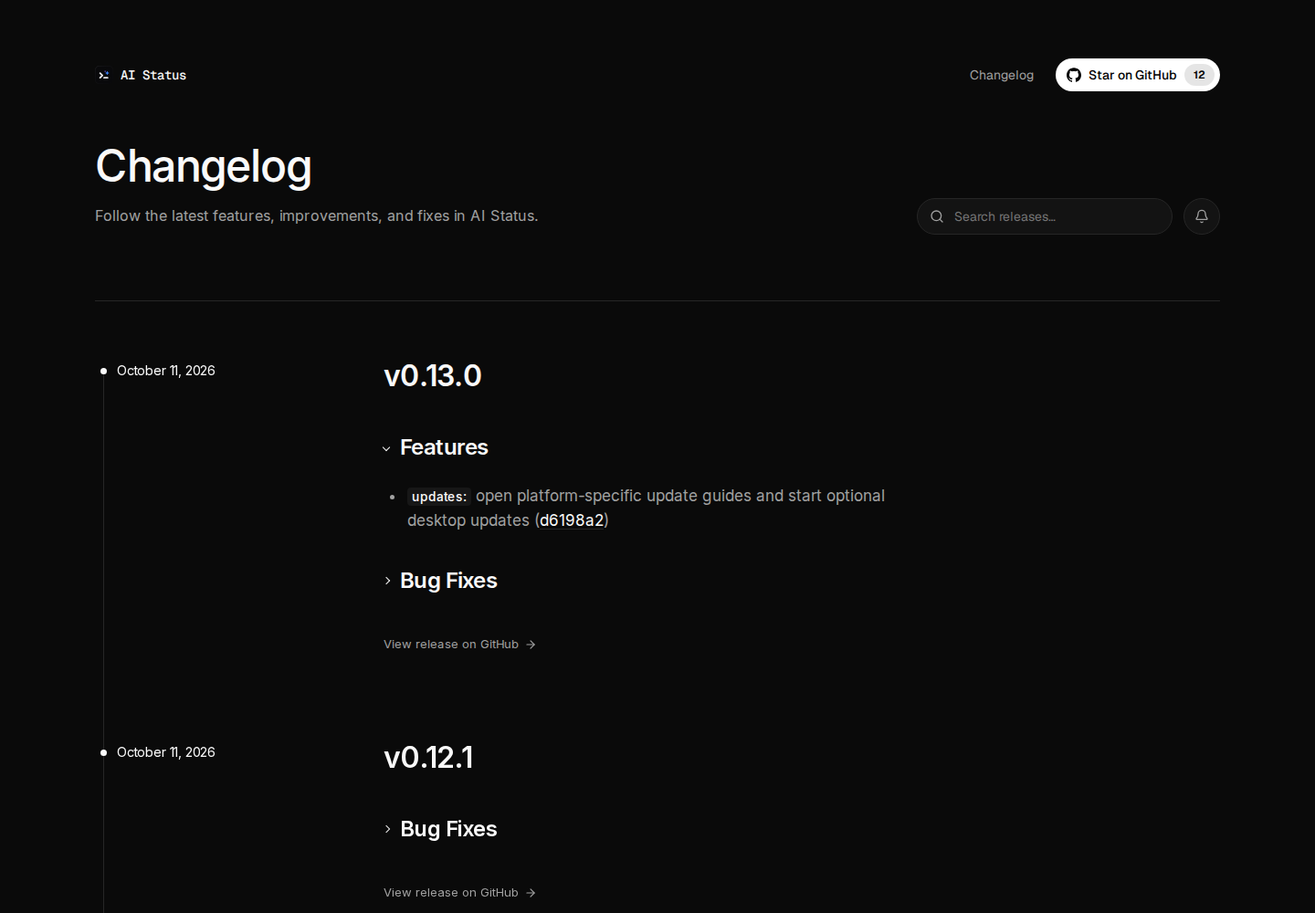
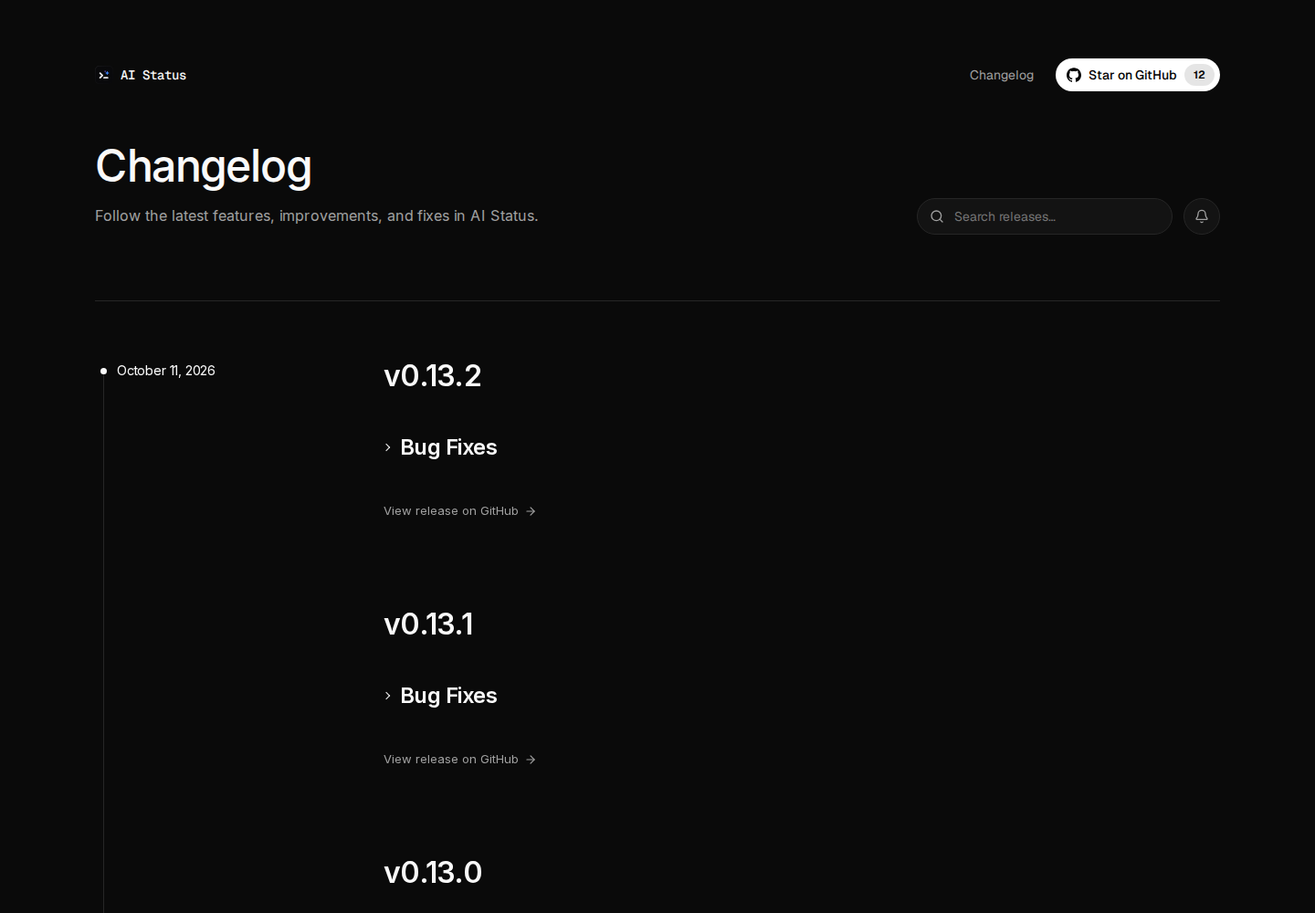
fix(web): group changelog releases by publication day (#58)

diff --git a/apps/web/src/app/changelog/page.tsx b/apps/web/src/app/changelog/page.tsx
@@ -6,7 +6,7 @@ import { ChangelogShell } from "@/components/changelog-shell";
 import { ChangelogSearch } from "@/components/changelog-search";
 import { PILL_CONTROL } from "@/components/search-input";
 import { getReleases } from "@/lib/releases";
-import { selectReleases } from "@/lib/changelog";
+import { groupReleasesByDay, selectReleases } from "@/lib/changelog";
 import { renderMarkdown } from "@/lib/markdown";
 import { repo, site } from "@/lib/env";
 import "./changelog.css";
@@ -38,20 +38,29 @@ export default async function ChangelogPage({ searchParams }: {
 		query: typeof params.q === "string" ? params.q : "",
 		page: typeof params.page === "string" ? Number(params.page) : 1,
 	});
-	const articles = await Promise.all(selection.releases.map(async (release) => {
-		const id = `release-${release.id}`;
+	const days = await Promise.all(groupReleasesByDay(selection.releases).map(async ({ day, releases }) => {
+		const date = dateFormat.format(new Date(`${day}T00:00:00Z`));
 		return (
-			<article key={release.id} id={id} className="changelog-entry" aria-labelledby={`${id}-title`}>
-				<div className="changelog-date"><a href={`#${id}`}><time dateTime={release.publishedAt}>{dateFormat.format(new Date(release.publishedAt))}</time></a></div>
-				<div className="changelog-article">
-					<h2 id={`${id}-title`} className="changelog-release-title"><a href={release.url}>{release.name}</a></h2>
-					{release.name !== release.tagName && <p className="changelog-version">{release.tagName}</p>}
-					<div className="changelog-prose">
-						{release.body.trim() ? await renderMarkdown(release.body, { release, headingPrefix: `${id}-section-` }) : <p>No release notes were provided. <a href={release.url}>View this release on GitHub.</a></p>}
-					</div>
-					<a href={release.url} className="changelog-release-link">View release on GitHub <ArrowRight size={14} aria-hidden="true" /></a>
+			<section key={day} className="changelog-day" aria-label={`${date} releases`}>
+				<div className="changelog-date"><a href={`#release-${releases[0].id}`}><time dateTime={day}>{date}</time></a></div>
+				<div className="changelog-day-releases">
+					{await Promise.all(releases.map(async (release) => {
+						const id = `release-${release.id}`;
+						return (
+							<article key={release.id} id={id} className="changelog-entry" aria-labelledby={`${id}-title`}>
+								<div className="changelog-article">
+									<h2 id={`${id}-title`} className="changelog-release-title"><a href={release.url}>{release.name}</a></h2>
+									{release.name !== release.tagName && <p className="changelog-version">{release.tagName}</p>}
+									<div className="changelog-prose">
+										{release.body.trim() ? await renderMarkdown(release.body, { release, headingPrefix: `${id}-section-` }) : <p>No release notes were provided. <a href={release.url}>View this release on GitHub.</a></p>}
+									</div>
+									<a href={release.url} className="changelog-release-link">View release on GitHub <ArrowRight size={14} aria-hidden="true" /></a>
+								</div>
+							</article>
+						);
+					}))}
 				</div>
-			</article>
+			</section>
 		);
 	}));
 	return (
@@ -69,7 +78,7 @@ export default async function ChangelogPage({ searchParams }: {
 				</div>
 				<div className="changelog-list">
 					{selection.query && <div className="changelog-search-results"><p>{selection.total} {selection.total === 1 ? "release" : "releases"} matching “{selection.query}”</p><Link href="/changelog">Clear search</Link></div>}
-					{result.status === "unavailable" ? <div className="changelog-empty" role="status"><h2>Release updates are temporarily unavailable</h2><p>Please try again shortly, or <a href={`${repo.url}/releases`}>read the releases on GitHub</a>.</p></div> : articles.length ? articles : <div className="changelog-empty" role="status"><h2>{selection.query ? "No releases found" : "No releases published yet"}</h2><p>{selection.query ? "Try another version, title or keyword." : "Published stable releases will appear here."}</p><a href={`${repo.url}/releases`}>View GitHub Releases <ArrowRight size={14} aria-hidden="true" /></a></div>}
+					{result.status === "unavailable" ? <div className="changelog-empty" role="status"><h2>Release updates are temporarily unavailable</h2><p>Please try again shortly, or <a href={`${repo.url}/releases`}>read the releases on GitHub</a>.</p></div> : days.length ? days : <div className="changelog-empty" role="status"><h2>{selection.query ? "No releases found" : "No releases published yet"}</h2><p>{selection.query ? "Try another version, title or keyword." : "Published stable releases will appear here."}</p><a href={`${repo.url}/releases`}>View GitHub Releases <ArrowRight size={14} aria-hidden="true" /></a></div>}
 				</div>
 				{selection.pageCount > 1 && <nav className="changelog-pagination" aria-label="Release pages">
 					{selection.page > 1 && <Link href={pageHref(selection.page - 1, selection.query)} rel="prev"><ArrowLeft size={14} aria-hidden="true" />Newer updates</Link>}

diff --git a/apps/web/src/app/changelog/changelog.css b/apps/web/src/app/changelog/changelog.css
@@ -20,13 +20,15 @@
 .changelog-tools { display: flex; align-items: center; gap: 12px; font-family: var(--font-geist-sans), sans-serif; }
 .changelog-search { width: 280px; }
 .changelog-list { border-top: 1px solid var(--border); padding-top: 64px; }
-.changelog-entry { display: grid; grid-template-columns: repeat(12, minmax(0, 1fr)); gap: 32px; position: relative; padding-bottom: 96px; scroll-margin-top: 96px; }
-.changelog-entry::before { content: ""; position: absolute; left: 9px; top: 12px; bottom: -12px; width: 1px; background: var(--border); }
-.changelog-entry:last-child::before { bottom: 96px; }
+.changelog-day { display: grid; grid-template-columns: repeat(12, minmax(0, 1fr)); gap: 32px; position: relative; }
+.changelog-day::before { content: ""; position: absolute; left: 9px; top: 12px; bottom: -12px; width: 1px; background: var(--border); }
+.changelog-day:last-child::before { bottom: 96px; }
 .changelog-date { grid-column: 1 / span 3; }
 .changelog-date a { position: sticky; top: 96px; display: block; padding-left: 24px; font-size: 14px; line-height: 24px; letter-spacing: -.182px; }
 .changelog-date a::before { content: ""; position: absolute; left: 6px; top: 9px; height: 7px; width: 7px; border-radius: 50%; background: var(--foreground); }
-.changelog-article { grid-column: 4 / span 6; min-width: 0; }
+.changelog-day-releases { grid-column: 4 / span 6; min-width: 0; }
+.changelog-entry { position: relative; padding-bottom: 96px; scroll-margin-top: 96px; }
+.changelog-article { min-width: 0; }
 .changelog-release-title { font-size: 32px; line-height: 36px; font-weight: 590; letter-spacing: -.704px; margin: 0; }
 .changelog-version { font-size: 14px; color: var(--muted-foreground); margin-top: 8px; }
 .changelog-prose { font-size: 17px; line-height: 1.6; color: var(--muted-foreground); overflow-wrap: anywhere; }
@@ -59,8 +61,8 @@
 .changelog-pagination > span { font-size: 13px; margin-right: auto; }
 .changelog-pagination a { display: inline-flex; align-items: center; gap: 8px; border: 1px solid var(--border); border-radius: 8px; padding: 9px 16px; }
 @media (max-width: 810px) {
-	.changelog-entry { grid-template-columns: repeat(8, minmax(0, 1fr)) repeat(4, 0); }
-	.changelog-article { grid-column: 4 / span 6; }
+	.changelog-day { grid-template-columns: repeat(8, minmax(0, 1fr)) repeat(4, 0); }
+	.changelog-day-releases { grid-column: 4 / span 6; }
 }
 @media (max-width: 768px) {
 	.changelog-release-title { font-size: 24px; line-height: 31.92px; letter-spacing: -.528px; }
@@ -72,8 +74,9 @@
 	.changelog-toolbar { min-height: 40px; flex-direction: column; align-items: stretch; gap: 24px; }
 	.changelog-tools { width: 100%; }
 	.changelog-search { flex: 1; width: auto; min-width: 0; }
-	.changelog-entry { display: flex; flex-direction: column; gap: 32px; padding-bottom: 80px; }
-	.changelog-entry::before, .changelog-date a::before { display: none; }
+	.changelog-day { display: flex; flex-direction: column; gap: 32px; }
+	.changelog-entry { padding-bottom: 80px; }
+	.changelog-day::before, .changelog-date a::before { display: none; }
 	.changelog-date a { position: static; padding: 0; color: var(--muted-foreground); }
 	.changelog-prose :is(h1, h2, h3, h4) { margin-top: 40px; }
 	.changelog-pagination { flex-wrap: wrap; gap: 12px; padding-bottom: 64px; }

diff --git a/apps/web/tests/markdown.test.tsx b/apps/web/tests/markdown.test.tsx
@@ -28,6 +28,21 @@ test("release Markdown preserves content and removes only the repeated automatic
 	assert.match(differentDate, /<h2/);
 });
 
+test("initial release notes remove a matching version/date heading linked to their commit history", async () => {
+	const initial = { tagName: "v0.1.0", publishedAt: "2026-07-03T22:44:24Z" };
+	const notes = "## [0.1.0](https://github.com/gelzinn/ai-status/commits/v0.1.0) (2026-07-03)\n\n" +
+		"### Features\n\n* Initial provider support.";
+	const html = renderToStaticMarkup(await renderMarkdown(notes, { release: initial }));
+	assert.doesNotMatch(html, /<h2/);
+	assert.match(html, /Initial provider support/);
+	for (const other of [
+		{ ...initial, tagName: "v0.2.0" },
+		{ ...initial, publishedAt: "2026-07-04T00:00:00Z" },
+	]) {
+		assert.match(renderToStaticMarkup(await renderMarkdown(notes, { release: other })), /<h2/);
+	}
+});
+
 test("heading IDs and local links remain unique within and across releases", async () => {
 	const notes = "### Fixes\n\n[Jump to fixes](#fixes)\n\n### Fixes\n\nAnother fix.";
 	const first = renderToStaticMarkup(await renderMarkdown(notes, { headingPrefix: "release-1-" }));

diff --git a/apps/web/src/lib/markdown.tsx b/apps/web/src/lib/markdown.tsx
@@ -75,7 +75,7 @@ type MarkdownOptions = {
 	release?: { tagName: string; publishedAt: string };
 };
 
-/** Remove only Release Please's redundant first version/date heading. */
+/** Remove only release notes' redundant first version/date heading. */
 function releaseHeading({ release }: MarkdownOptions) {
 	return (tree: { children: any[] }) => {
 		if (!release) return;
@@ -89,7 +89,8 @@ function releaseHeading({ release }: MarkdownOptions) {
 		if (first?.type === "heading" && first.depth === 2 &&
 			text(first) === `${version} (${date})` && versionLink?.type === "link" &&
 			typeof versionLink.url === "string" && versionLink.url.startsWith("https://github.com/") &&
-			versionLink.url.includes("/compare/")) {
+			(versionLink.url.includes("/compare/") ||
+				versionLink.url.endsWith(`/commits/${release.tagName}`))) {
 			tree.children.shift();
 		}
 	};

diff --git a/apps/web/src/lib/changelog.ts b/apps/web/src/lib/changelog.ts
@@ -15,6 +15,26 @@ export type ReleaseResult =
 export const RELEASES_PER_PAGE = 10;
 const API_PAGE_SIZE = 100;
 
+export interface ReleaseDayGroup {
+	day: string;
+	releases: Release[];
+}
+
+/** Group a selected page by UTC publication day, preserving publication order. */
+export function groupReleasesByDay(releases: Release[]): ReleaseDayGroup[] {
+	const groups = new Map<string, ReleaseDayGroup>();
+	for (const release of releases) {
+		const day = new Date(release.publishedAt).toISOString().slice(0, 10);
+		const group = groups.get(day);
+		if (group) {
+			group.releases.push(release);
+		} else {
+			groups.set(day, { day, releases: [release] });
+		}
+	}
+	return [...groups.values()];
+}
+
 interface FetchReleasesOptions {
 	apiRepo: string;
 	userAgent: string;

diff --git a/docs/release-notes/README.md b/docs/release-notes/README.md
@@ -1,0 +1,47 @@
+# Historical release notes
+
+These files contain the reviewed GitHub release bodies for the 15 published stable releases from v0.1.0 through v0.9.0. GitHub Releases remain the content source for the [web changelog](https://ai-status.gelzin.com/changelog); these Markdown files record a one-time historical normalization, rather than a second changelog or input to the release workflow. Releases v0.10.0 and later retain their existing Release Please notes.
+
+Each file uses the current release-note structure: a linked version heading, the original UTC publication date and applicable Features, Bug Fixes, Performance Improvements, Documentation or Maintenance sections. The initial release links to its tagged commit history because it has no preceding release. Changes are attributed to their original pull requests or commits. Version-bump commits, release preparation boilerplate and merge commits are omitted. @allankayan's first contribution is preserved in v0.2.0.
+
+## Evidence
+
+The source evidence is the original published GitHub release body, the tagged comparison and the commit messages and file changes in that range. Publication dates come from each release's `published_at` metadata, rather than the tag or commit date. The original bodies are retained in the migration snapshot described below. Links use the current `gelzinn/ai-status` repository name, including releases published before the repository was renamed from `omarchy-ai-status`.
+
+| Release | Tagged evidence | Main change references |
+| --- | --- | --- |
+| v0.1.0 | [Initial history](https://github.com/gelzinn/ai-status/commits/v0.1.0) | [Initial implementation](https://github.com/gelzinn/ai-status/commit/e66291893ab385c0f5f1bccfed2eccb5a9062d77), [configuration](https://github.com/gelzinn/ai-status/commit/f3781e9d1a3d5e45d5a553148f02d4ed2fdf34cb), [terminal launch](https://github.com/gelzinn/ai-status/commit/82938959938f72aa050458edc5e86cb5216f4693) |
+| v0.2.0 | [v0.1.0…v0.2.0](https://github.com/gelzinn/ai-status/compare/v0.1.0...v0.2.0) | [#1](https://github.com/gelzinn/ai-status/pull/1), documentation commits linked in the notes |
+| v0.3.0 | [v0.2.0…v0.3.0](https://github.com/gelzinn/ai-status/compare/v0.2.0...v0.3.0) | [#2](https://github.com/gelzinn/ai-status/pull/2) |
+| v0.3.1 | [v0.3.0…v0.3.1](https://github.com/gelzinn/ai-status/compare/v0.3.0...v0.3.1) | [#3](https://github.com/gelzinn/ai-status/pull/3) |
+| v0.3.2 | [v0.3.1…v0.3.2](https://github.com/gelzinn/ai-status/compare/v0.3.1...v0.3.2) | [#5](https://github.com/gelzinn/ai-status/pull/5) |
+| v0.3.3 | [v0.3.2…v0.3.3](https://github.com/gelzinn/ai-status/compare/v0.3.2...v0.3.3) | [Funding configuration](https://github.com/gelzinn/ai-status/commit/389f3b3f506ebd58d9981821b9c939497113f431) |
+| v0.4.0 | [v0.3.3…v0.4.0](https://github.com/gelzinn/ai-status/compare/v0.3.3...v0.4.0) | [#6](https://github.com/gelzinn/ai-status/pull/6) |
+| v0.4.1 | [v0.4.0…v0.4.1](https://github.com/gelzinn/ai-status/compare/v0.4.0...v0.4.1) | [#7](https://github.com/gelzinn/ai-status/pull/7) |
+| v0.4.2 | [v0.4.1…v0.4.2](https://github.com/gelzinn/ai-status/compare/v0.4.1...v0.4.2) | [#8](https://github.com/gelzinn/ai-status/pull/8), [#9](https://github.com/gelzinn/ai-status/pull/9), [#10](https://github.com/gelzinn/ai-status/pull/10) |
+| v0.5.0 | [v0.4.2…v0.5.0](https://github.com/gelzinn/ai-status/compare/v0.4.2...v0.5.0) | [#11](https://github.com/gelzinn/ai-status/pull/11), [#12](https://github.com/gelzinn/ai-status/pull/12), [#14](https://github.com/gelzinn/ai-status/pull/14), [#15](https://github.com/gelzinn/ai-status/pull/15), [#16](https://github.com/gelzinn/ai-status/pull/16), [#17](https://github.com/gelzinn/ai-status/pull/17) |
+| v0.6.0 | [v0.5.0…v0.6.0](https://github.com/gelzinn/ai-status/compare/v0.5.0...v0.6.0) | [#19](https://github.com/gelzinn/ai-status/pull/19) |
+| v0.6.1 | [v0.6.0…v0.6.1](https://github.com/gelzinn/ai-status/compare/v0.6.0...v0.6.1) | [#21](https://github.com/gelzinn/ai-status/pull/21) |
+| v0.7.0 | [v0.6.1…v0.7.0](https://github.com/gelzinn/ai-status/compare/v0.6.1...v0.7.0) | [#23](https://github.com/gelzinn/ai-status/pull/23) |
+| v0.8.0 | [v0.7.0…v0.8.0](https://github.com/gelzinn/ai-status/compare/v0.7.0...v0.8.0) | [#25](https://github.com/gelzinn/ai-status/pull/25) |
+| v0.9.0 | [v0.8.0…v0.9.0](https://github.com/gelzinn/ai-status/compare/v0.8.0...v0.9.0) | [#27](https://github.com/gelzinn/ai-status/pull/27) |
+
+Two historical cases need explicit interpretation:
+
+* v0.3.3 originally had only a comparison link. Its range contains the funding configuration and a version bump; the normalized notes describe only the funding change.
+* v0.5.0's original generated body compared against v0.4.1 and repeated changes already published in v0.4.2. The normalized body compares against v0.4.2 and assigns each substantive change to the first published tag containing it.
+
+The Maintenance and release-related Bug Fixes describe the automation shipped at those historical tags. They are historical notes, not instructions for the current release workflow.
+
+## Body-only migration
+
+Applied on October 11, 2026: all 15 legacy release bodies match these files.
+Release IDs, names, tags, target commits, publication dates, status and assets
+were checked against the original snapshot. The seven modern releases were
+also checked and their bodies were unchanged.
+
+Before applying these files, export the complete existing release metadata and bodies to a dated JSON snapshot outside the repository. Keep the snapshot's location in the migration record so the original bodies can be restored; do not commit local paths, credentials or transient API responses here.
+
+After review, update only the `body` field of each matching published release, using its existing release ID. Preserve names, tags, target commits, publication dates, draft/prerelease status and assets. Do not recreate or republish releases. Read the releases back and compare their bodies with these files, then compare all other metadata and assets with the backup. Verify that modern releases are unchanged and that the web changelog renders the migrated Markdown after its cache refresh.
+
+Future releases continue to obtain their notes from Release Please and GitHub Releases; this directory does not participate in generation or publication.

diff --git a/docs/screenshots/changelog/README.md b/docs/screenshots/changelog/README.md
@@ -2,23 +2,34 @@
 
 These screenshots capture the production Next.js build at `/changelog`, using
 published stable releases from `gelzinn/ai-status`. The latest release shown is
-`v0.13.0`, captured on October 11, 2026. No credentials or account data appear.
+`v0.13.2`, captured on October 11, 2026. No credentials or account data appear.
 
 The release list follows the Linear changelog's measured typography, spacing,
 timeline and responsive grid. The page reuses the website's shared header and
 footer, its provider search input, and the landing page's light and dark colors.
 Header, content and footer share the landing page's `max-w-7xl` container and
 24-pixel horizontal padding. A description replaces the repeated changelog tab.
+Releases share one date and timeline marker per UTC publication day. On desktop,
+the date stays visible while scrolling through that day's releases, then gives
+way to the next date. Mobile shows one static date above each group. The captured
+October 11 group contains six releases.
+
 Features and Bug Fixes use the same expandable headings. Features starts open;
-Bug Fixes starts closed.
+Bug Fixes starts closed. Releases containing only fixes keep those notes available
+in their Bug Fixes section.
 
 - `desktop-dark.png` and `desktop-light.png`: 1440 × 1000 viewport.
 - `mobile-dark.png` and `mobile-light.png`: 390 × 844 viewport.
+- `desktop-sticky-dark.png`: 1440 × 1000 viewport, scrolled through the October 11
+  group to show one date beside several versions.
+- `desktop-legacy-dark.png`: 1440 × 1000 viewport, showing the normalized sections
+  in the published `v0.9.0` notes.
 
-Browser validation covers search across older releases, pagination, clearing
-search, shared navigation, release section defaults and mouse/keyboard toggles,
-Escape and focus return
-in the image dialog, aligned header/content/footer edges and no horizontal
-overflow at 320, 390, 768, 1024, 1440 or 1920 pixels. A separate
-fixture exercises the actual image component's server rendering, hydration,
-zoom dialog, linked images and keyboard behavior.
+Browser validation covers one date/marker per day, sticky behavior across several
+releases and at day boundaries, static mobile dates, release anchors, search
+across older releases, query-preserving pagination, clearing search, and section
+defaults and mouse/keyboard toggles. Header/content/footer edges remain aligned
+with no horizontal overflow at 320, 390, 768, 1024, 1440 or 1920 pixels. The
+canonical version/date heading and commits link are removed from the rendered
+`v0.1.0` body. A separate fixture exercises the image component's server rendering,
+hydration, zoom dialog, linked images and keyboard behavior.

diff --git a/docs/release-notes/v0.7.0.md b/docs/release-notes/v0.7.0.md
@@ -1,0 +1,21 @@
+## [0.7.0](https://github.com/gelzinn/ai-status/compare/v0.6.1...v0.7.0) (2026-07-11)
+
+### Features
+
+* **install:** configure bar icons and display preferences in an installation wizard, back up the existing Waybar configuration and restore it with `ai-status revert` ([#23](https://github.com/gelzinn/ai-status/pull/23), [9387360](https://github.com/gelzinn/ai-status/commit/9387360f5dce47ebe566d025bb55069d8103d175)).
+* **waybar:** select individual provider metrics, including Claude's separate weekly limits, and show the same detailed tooltip when hovering over the text or provider logo ([#23](https://github.com/gelzinn/ai-status/pull/23)).
+* **web:** redesign the landing page and provider catalog and provide the shorter `/install` URL for installation commands ([#23](https://github.com/gelzinn/ai-status/pull/23)).
+
+### Bug Fixes
+
+* **install:** handle URLs and trailing commas in Waybar configuration, avoid duplicate modules, guard unsupported multi-bar configurations and finish setup with defaults in headless or cancelled-wizard cases ([#23](https://github.com/gelzinn/ai-status/pull/23)).
+* **waybar:** preserve display preferences during loading, keep tooltip layouts stable and synchronize text and logo when the selected provider changes ([#23](https://github.com/gelzinn/ai-status/pull/23)).
+
+### Performance Improvements
+
+* **usage:** display each provider's result as it arrives instead of waiting for the slowest provider to finish refreshing ([#23](https://github.com/gelzinn/ai-status/pull/23)).
+* **install:** install only the desktop library and shared provider data, leaving website dependencies, build output and Git metadata out of the installed copy ([#23](https://github.com/gelzinn/ai-status/pull/23)).
+
+### Documentation
+
+* update installation and provider guides for the wizard, logo tooltips, per-model metric selection and Codex's five-hour and weekly limits ([#23](https://github.com/gelzinn/ai-status/pull/23)).

diff --git a/docs/release-notes/v0.5.0.md b/docs/release-notes/v0.5.0.md
@@ -1,0 +1,13 @@
+## [0.5.0](https://github.com/gelzinn/ai-status/compare/v0.4.2...v0.5.0) (2026-07-07)
+
+### Features
+
+* **web:** introduce the project website and move the desktop library and shared provider data into a monorepo named AI Status ([#16](https://github.com/gelzinn/ai-status/pull/16), [d92bb67](https://github.com/gelzinn/ai-status/commit/d92bb678fdbe26785e10603c9a1ebb357cc5aa22)).
+* **install:** migrate existing `waybar-ai-status` installations automatically and keep the legacy command symlink working ([#16](https://github.com/gelzinn/ai-status/pull/16)).
+
+### Bug Fixes
+
+* **web:** fix TypeScript configuration and font loading after the monorepo migration ([#17](https://github.com/gelzinn/ai-status/pull/17), [2d59376](https://github.com/gelzinn/ai-status/commit/2d5937671fedfb4ab725ae36ae51585d2f808f51)).
+* **release:** use a release pull request for protected main and authenticate its creation with the configured bot token ([#11](https://github.com/gelzinn/ai-status/pull/11), [#12](https://github.com/gelzinn/ai-status/pull/12)).
+* **release:** read only the first line of commit messages to avoid multiline co-author metadata breaking workflow outputs ([#14](https://github.com/gelzinn/ai-status/pull/14), [cdce2a7](https://github.com/gelzinn/ai-status/commit/cdce2a7a694717f860f2ff8c60583cece4f20476)).
+* **release:** replace an existing release branch before pushing and skip preparation when the release tag already exists ([#15](https://github.com/gelzinn/ai-status/pull/15), [a0ed3e1](https://github.com/gelzinn/ai-status/commit/a0ed3e1fd0fa63b63fdafaf5bed547e69eb0c2ef)).

diff --git a/docs/release-notes/v0.8.0.md b/docs/release-notes/v0.8.0.md
@@ -1,0 +1,15 @@
+## [0.8.0](https://github.com/gelzinn/ai-status/compare/v0.7.0...v0.8.0) (2026-07-12)
+
+### Features
+
+* **web:** search providers and filter the catalog by authentication method and usage period, with a live result count and mobile-friendly controls ([#25](https://github.com/gelzinn/ai-status/pull/25), [a906eb3](https://github.com/gelzinn/ai-status/commit/a906eb3f6b9b8491e93a90f314451488f079aa76)).
+* **web:** add individual provider pages with Markdown setup guides and link them from the homepage provider cards ([#25](https://github.com/gelzinn/ai-status/pull/25)).
+* **web:** explain credential handling, provider credential sources and outbound connections on the security page ([#25](https://github.com/gelzinn/ai-status/pull/25)).
+
+### Bug Fixes
+
+* **providers:** correct authentication methods and credential-source metadata used by the website ([#25](https://github.com/gelzinn/ai-status/pull/25)).
+
+### Documentation
+
+* publish authentication guides for Claude, Codex, Copilot, Kiro, Antigravity and Z.AI and refine the OpenCode guide ([#25](https://github.com/gelzinn/ai-status/pull/25)).

diff --git a/docs/release-notes/v0.2.0.md b/docs/release-notes/v0.2.0.md
@@ -1,0 +1,17 @@
+## [0.2.0](https://github.com/gelzinn/ai-status/compare/v0.1.0...v0.2.0) (2026-07-04)
+
+### Features
+
+* **claude:** read usage from Claude Code credentials, fall back to OpenCode when the token is missing or expired, and show the subscription plan in the provider label; contributed by @allankayan ([#1](https://github.com/gelzinn/ai-status/pull/1), [fd4aa32](https://github.com/gelzinn/ai-status/commit/fd4aa325de7985f83d847ea502bfc9302bcf0d32)).
+
+### Bug Fixes
+
+* **claude:** parse the current OAuth usage response, including session, weekly and per-model limits ([#1](https://github.com/gelzinn/ai-status/pull/1)).
+
+### Documentation
+
+* reorganize project guides with consistent tables and update OpenCode authentication and setup instructions ([37ce743](https://github.com/gelzinn/ai-status/commit/37ce743bfa071bb9f2d3d86606868242419e5dcc), [db73cb8](https://github.com/gelzinn/ai-status/commit/db73cb8f991048c8e80b98e79699d254e54f03b2)).
+
+### New Contributors
+
+* @allankayan made their first contribution in [#1](https://github.com/gelzinn/ai-status/pull/1).

diff --git a/docs/release-notes/v0.9.0.md b/docs/release-notes/v0.9.0.md
@@ -1,0 +1,14 @@
+## [0.9.0](https://github.com/gelzinn/ai-status/compare/v0.8.0...v0.9.0) (2026-07-12)
+
+### Features
+
+* **providers:** track Command Code monthly spend and the billing-period reset using credentials from the `cmd` CLI or `COMMANDCODE_API_KEY` ([#27](https://github.com/gelzinn/ai-status/pull/27), [2abf0cd](https://github.com/gelzinn/ai-status/commit/2abf0cdcffd9ab341b43549c79547b800904f5c4)).
+* **web:** keep an Install action available in the sidebar after the hero scrolls away and animate page transitions ([#27](https://github.com/gelzinn/ai-status/pull/27)).
+
+### Bug Fixes
+
+* **web:** size provider-logo corner radii consistently across the homepage, catalog, security table and provider pages ([#27](https://github.com/gelzinn/ai-status/pull/27)).
+
+### Documentation
+
+* add the Command Code authentication guide and credential-source entry on the security page, and group provider privacy links with the other reference links ([#27](https://github.com/gelzinn/ai-status/pull/27)).
